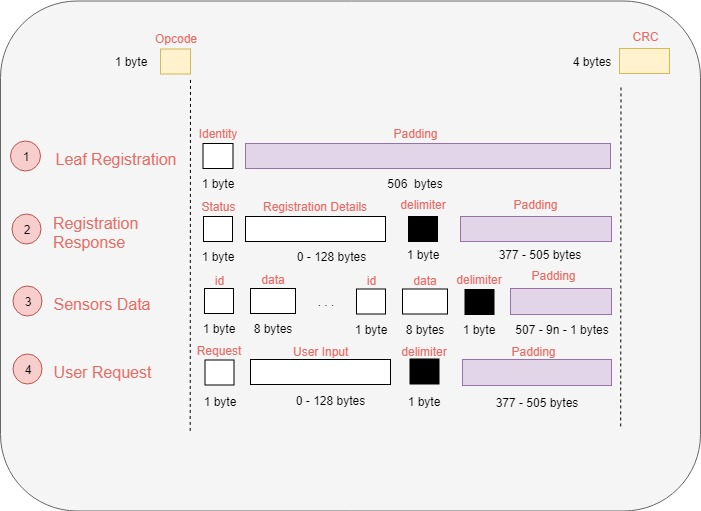
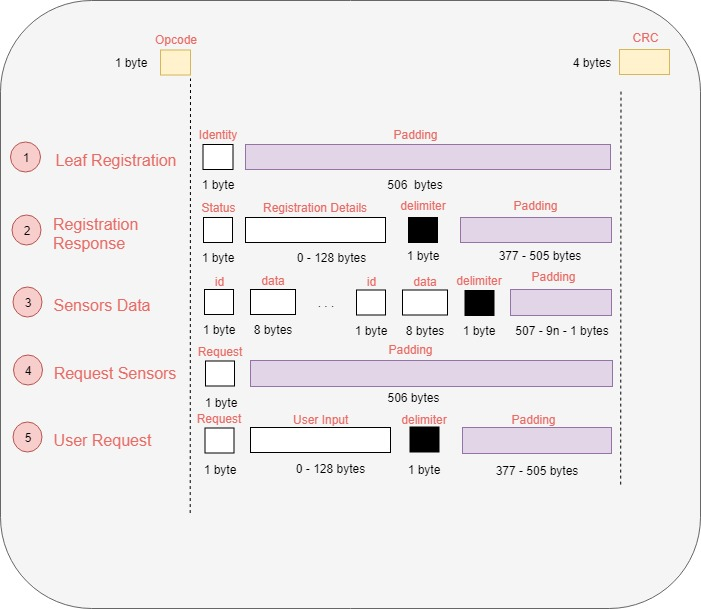
Send sensor data to android user (#22)

diff --git a/cps/database/tables/PlantData.java b/cps/database/tables/PlantData.java
@@ -1,0 +1,89 @@
+package cps.database.tables;
+
+import cps.database.DatabaseInfo;
+import cps.database.exceptions.SmartgrowDatabaseException;
+import cps.database.DatabaseController;
+import endpoint.sensors.SupportedSensors;
+import network.core.packets.SensorsData;
+
+import java.sql.ResultSet;
+import java.sql.SQLException;
+import java.time.LocalDateTime;
+import java.time.format.DateTimeFormatter;
+
+/**
+ * PlantData is a DatabaseController wrapper for the plant_data
+ * table. It provides methods for inserting and retrieving
+ * sensors data.
+ * 
+ * @author Ahmed Sakr
+ * @since November 6, 2019
+ */
+public class PlantData {
+
+    // Object representation for manipulating the database.
+    private DatabaseController database;
+
+    /**
+     * Initialize the wrapper for the plant_data table in the database.
+     *
+     * @param database Object reppresentation for manipulating the database.
+     */
+    public PlantData(DatabaseController database) {
+        this.database = database;
+    }
+    
+    /**
+     * Insert the sensors data into the plant_data table.
+     *
+     * @param data The SensorsData packet retrieved from a plant endpoint.
+     * @throws SmartgrowDatabaseException
+     */
+    public void insertSensorsData(SensorsData data) throws SmartgrowDatabaseException {
+        DateTimeFormatter formatter = DateTimeFormatter.ofPattern("yyyy-MM-dd HH:mm:ss");
+        String sql = String.format(
+            "INSERT INTO %s (plant_id, time_taken, light_intensity, air_humidity, air_temperature, soil_moisture) " +
+            "VALUES (%d, '%s', %f, %f, %f, %f);",
+             DatabaseInfo.DATABASE_SENSORS_TABLE, 1, formatter.format(LocalDateTime.now()),
+             data.getSensorData(SupportedSensors.LIGHT_INTENSITY),
+             data.getSensorData(SupportedSensors.AIR_HUMIDITY),
+             data.getSensorData(SupportedSensors.AIR_TEMPERATURE),
+             data.getSensorData(SupportedSensors.SOIL_MOISTURE));
+
+        // Update the database with the prepared SQL statement.
+        this.database.update(sql);
+    }
+
+    /**
+     * Retrieve the latest sensor data for the plant.
+     *
+     * @return A SensorsData packet containing the latest sensor data
+     * @throws SmartgrowDatabaseException
+     */
+    public SensorsData getLatestSensorData() throws SmartgrowDatabaseException {
+        String sql = String.format(
+            "SELECT * from %s ORDER BY time_taken DESC LIMIT 1", DatabaseInfo.DATABASE_SENSORS_TABLE);
+
+        // Update the database with the prepared SQL statement.
+        ResultSet results = this.database.query(sql);
+        SensorsData data = new SensorsData();
+
+        try {
+            
+            // The plant data table returned nothing.
+            if (!results.next()) {
+                return data;
+            }
+
+            // Append the returned sensor data to the packet.
+            data.addSensorData(SupportedSensors.AIR_HUMIDITY, results.getDouble("air_humidity"));
+            data.addSensorData(SupportedSensors.AIR_TEMPERATURE, results.getDouble("air_temperature"));
+            data.addSensorData(SupportedSensors.SOIL_MOISTURE, results.getDouble("soil_moisture"));
+            data.addSensorData(SupportedSensors.LIGHT_INTENSITY, results.getDouble("light_intensity"));
+        } catch (SQLException ex) {
+            throw new SmartgrowDatabaseException("Error parsing SQL ResultSet: " + ex.getMessage());
+        }
+
+        return data;
+    }
+}

diff --git a/cps/management/managers/AndroidUserManager.java b/cps/management/managers/AndroidUserManager.java
@@ -1,8 +1,14 @@
 package cps.management.managers;
 
+import org.apache.logging.log4j.LogManager;
+import org.apache.logging.log4j.Logger;
+
 import cps.database.DatabaseController;
+import cps.database.exceptions.SmartgrowDatabaseException;
+import cps.database.tables.PlantData;
 import cps.management.LeafManager;
 import network.core.Packet;
+import network.core.packets.RequestSensors;
 
 /**
  * AndroidUserManager provides the behaviour for interacting with
@@ -13,8 +19,12 @@ import network.core.Packet;
  */
 public class AndroidUserManager implements LeafManager {
 
+    // The logger instance for this class
+    private static Logger logger = LogManager.getLogger(AndroidUserManager.class);
+
     // Object representation for connecting and updating the database.
     private DatabaseController database;
+    private PlantData plantsData;
 
     /**
      * Initialize the manager for android users.
@@ -23,13 +33,26 @@ public class AndroidUserManager implements LeafManager {
      */
     public AndroidUserManager(DatabaseController database) {
         this.database = database;
+        this.plantsData = new PlantData(database);
     }
 
     /**
      * The handle instance for android user packets. Unimplemented at the moment.
      */
     @Override
-    public boolean handle(Packet packet) {
-        return false;
+    public Packet handle(Packet packet) {
+        if (packet == null || !(packet instanceof RequestSensors)) {
+            return null;
+        }
+
+        try {
+
+            // Retrieve the latest sensor values from the plant data.
+            return this.plantsData.getLatestSensorData();
+
+        } catch (SmartgrowDatabaseException ex) {
+            logger.error(ex.getMessage());
+            return null;
+        }
     }
 }

diff --git a/network/core/packets/RequestSensors.java b/network/core/packets/RequestSensors.java
@@ -1,0 +1,47 @@
+package network.core.packets;
+
+import java.util.Arrays;
+
+import network.core.OpCodes;
+import network.core.Packet;
+import network.leaf.Identity;
+
+/**
+ * The RequestSensors packet is a packet exclusively for the usage
+ * by android users when they wish to retain the latest sensor
+ * information for a a specific plant.
+ * 
+ * @author Ahmed Sakr
+ * @since November 7, 2019
+ */
+public class RequestSensors extends Packet {
+
+    public RequestSensors() {
+        super(OpCodes.REQUEST_SENSORS);
+    }
+
+    /**
+     * Retrieves all information for this RequestSensors packet by reading the
+     * provided payload.
+     *
+     * This method is invoked by Packet::fromPayload when the caller wishes to
+     * create an instance of RequestSensors through a given payload.
+     * 
+     * @param payload A prepopulated 512-byte payload used to get information from
+     */
+    @Override
+    protected void extract(byte[] payload) {
+
+    }
+
+    /**
+     * Builds the parent payload by moving the state information in this object
+     * into the parent packet.
+     * 
+     * Order of addition matters. This defines the format of the packet.
+     */
+    @Override
+    protected void build() {
+
+    }
+}

diff --git a/cps/management/managers/PlantEndpointManager.java b/cps/management/managers/PlantEndpointManager.java
@@ -5,7 +5,7 @@ import org.apache.logging.log4j.Logger;
 
 import cps.database.DatabaseController;
 import cps.database.exceptions.SmartgrowDatabaseException;
-import cps.database.wrappers.PlantData;
+import cps.database.tables.PlantData;
 import cps.management.LeafManager;
 import network.core.Packet;
 import network.core.packets.SensorsData;
@@ -41,9 +41,9 @@ public class PlantEndpointManager implements LeafManager {
      * The handling implementation for plant endpoints.
      */
     @Override
-    public boolean handle(Packet packet) {
-        if (!(packet instanceof SensorsData)) {
-            return false;
+    public Packet handle(Packet packet) {
+        if (packet == null || !(packet instanceof SensorsData)) {
+            return null;
         }
 
         try {
@@ -53,9 +53,11 @@ public class PlantEndpointManager implements LeafManager {
 
         } catch (SmartgrowDatabaseException ex) {
             logger.fatal("Unable to append data: " + ex.getMessage());
-            return false;
+            return null;
         }
 
-        return true;
+        // No return value for now: What to do when a plant endpoint
+        // gives us values?
+        return null;
     }
 }

diff --git a/network/core/packets/SensorsData.java b/network/core/packets/SensorsData.java
@@ -25,6 +25,9 @@ public class SensorsData extends Packet {
     public SensorsData() {
         super(OpCodes.SENSORS_DATA);
         this.data = new HashMap<>();
+
+        // Initialize the hashmap with the starting value of the sensors.
+        this.initialize();
     }
 
     /**
@@ -53,6 +56,16 @@ public class SensorsData extends Packet {
      */
     public double getSensorData(byte sensorId) {
         return this.data.get(sensorId);
+    }
+
+    /**
+     * Initialize the sensors value to -1.
+     */
+    private void initialize() {
+        this.data.put(SupportedSensors.AIR_HUMIDITY, -1.0);
+        this.data.put(SupportedSensors.AIR_TEMPERATURE, - 1.0);
+        this.data.put(SupportedSensors.LIGHT_INTENSITY, -1.0);
+        this.data.put(SupportedSensors.SOIL_MOISTURE, -1.0);
     }
 
     /**

diff --git a/network/core/Packet.java b/network/core/Packet.java
@@ -9,6 +9,7 @@ import java.util.zip.CRC32;
 
 import network.core.packets.LeafRegistration;
 import network.core.packets.RegistrationResponse;
+import network.core.packets.RequestSensors;
 import network.core.packets.SensorsData;
 import network.core.exceptions.CRCVerificationException;
 import network.core.exceptions.CorruptPacketException;
@@ -101,6 +102,9 @@ public abstract class Packet {
                 break;
             case OpCodes.SENSORS_DATA:
                 pkt = new SensorsData();
+                break;
+            case OpCodes.REQUEST_SENSORS:
+                pkt = new RequestSensors();
                 break;
             default:
                 throw new OpCodeNotRecognizedException("Packet OpCode is not recognized");

diff --git a/network/branch/threads/DedicatedLeafServicer.java b/network/branch/threads/DedicatedLeafServicer.java
@@ -128,7 +128,8 @@ public class DedicatedLeafServicer extends Transport implements Runnable {
                     this.lastReceivedTime = System.currentTimeMillis();
                 }
 
-                this.branch.manage(request);
+                // Manage the packet and send the response back to the leaf
+                this.send(this.branch.manage(request));
             }
         } catch (TransportInterruptedException ex) {
             logger.info("Ending servicer for " + this.getDestination());

diff --git a/network/branch/Branch.java b/network/branch/Branch.java
@@ -138,9 +138,9 @@ public class Branch {
      * @param packet The received packet by the servicer.
      * @return The status of the management operation
      */
-    public boolean manage(Packet packet) {
+    public Packet manage(Packet packet) {
         if (this.manager == null) {
-            return false;
+            return null;
         }
 
         return this.manager.handle(packet);

diff --git a/network/core/Transport.java b/network/core/Transport.java
@@ -101,7 +101,11 @@ public class Transport {
      * @throws IOException
      */
     public void send(Packet packet) throws TransportInterruptedException, IOException {
-        
+
+        if (packet == null) {
+            return;
+        }
+
         // Finalize the packet payload.
         packet.compile();
 

diff --git a/network/core/OpCodes.java b/network/core/OpCodes.java
@@ -12,4 +12,5 @@ public class OpCodes {
     public static final byte LEAF_REGISTRATION = 0;
     public static final byte REGISTRATION_RESPONSE = 1;
     public static final byte SENSORS_DATA = 2;
+    public static final byte REQUEST_SENSORS = 3;
 }

diff --git a/cps/management/LeafManager.java b/cps/management/LeafManager.java
@@ -18,5 +18,5 @@ public interface LeafManager {
      * @return      true    If handling went as expected
      *              false   Otherwise
      */
-    boolean handle(Packet packet);
+    Packet handle(Packet packet);
 }
